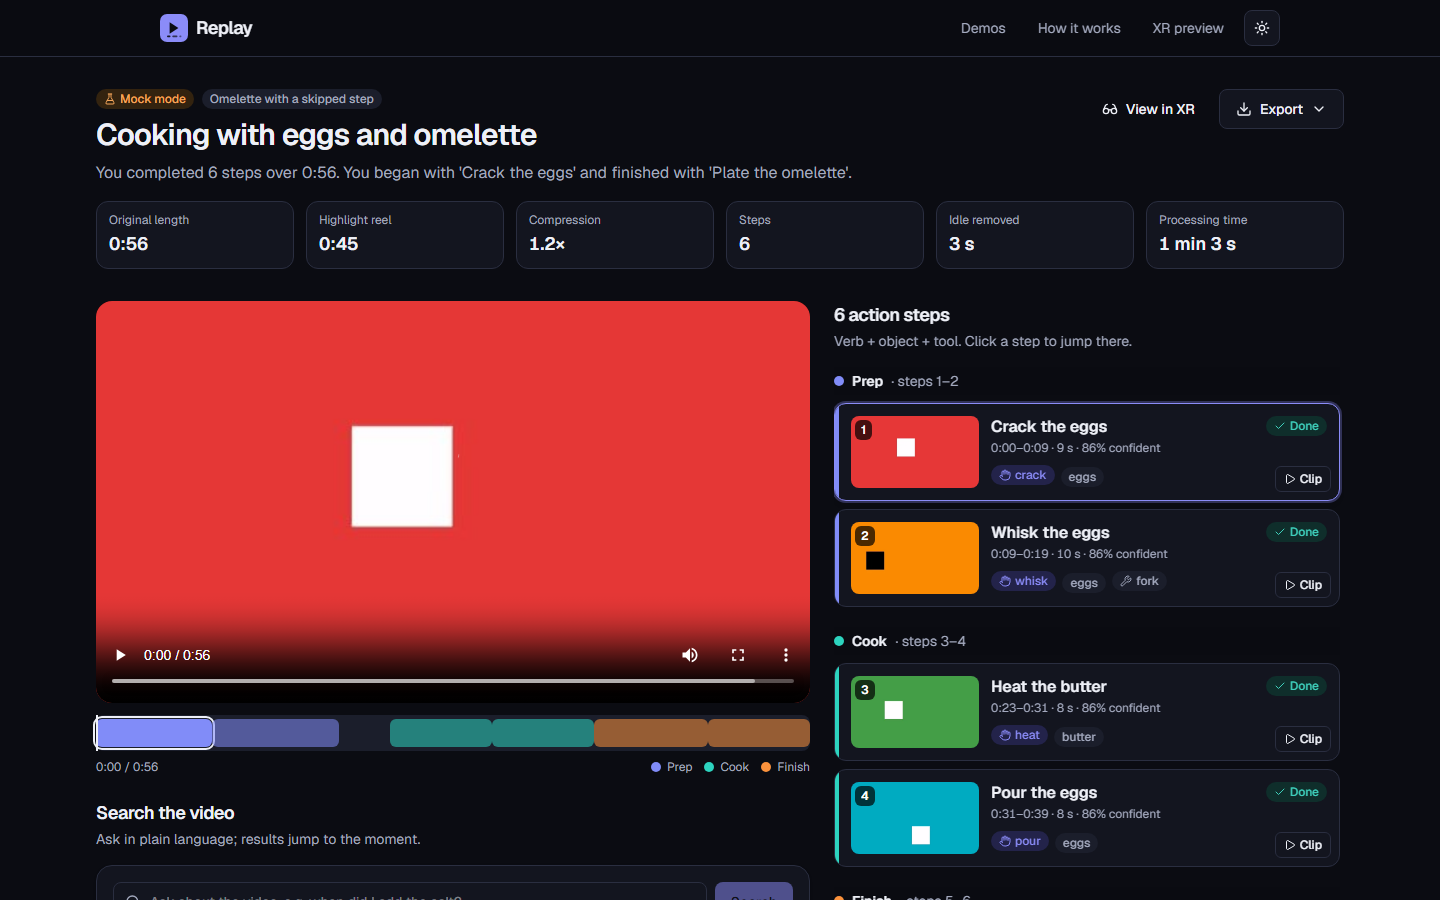
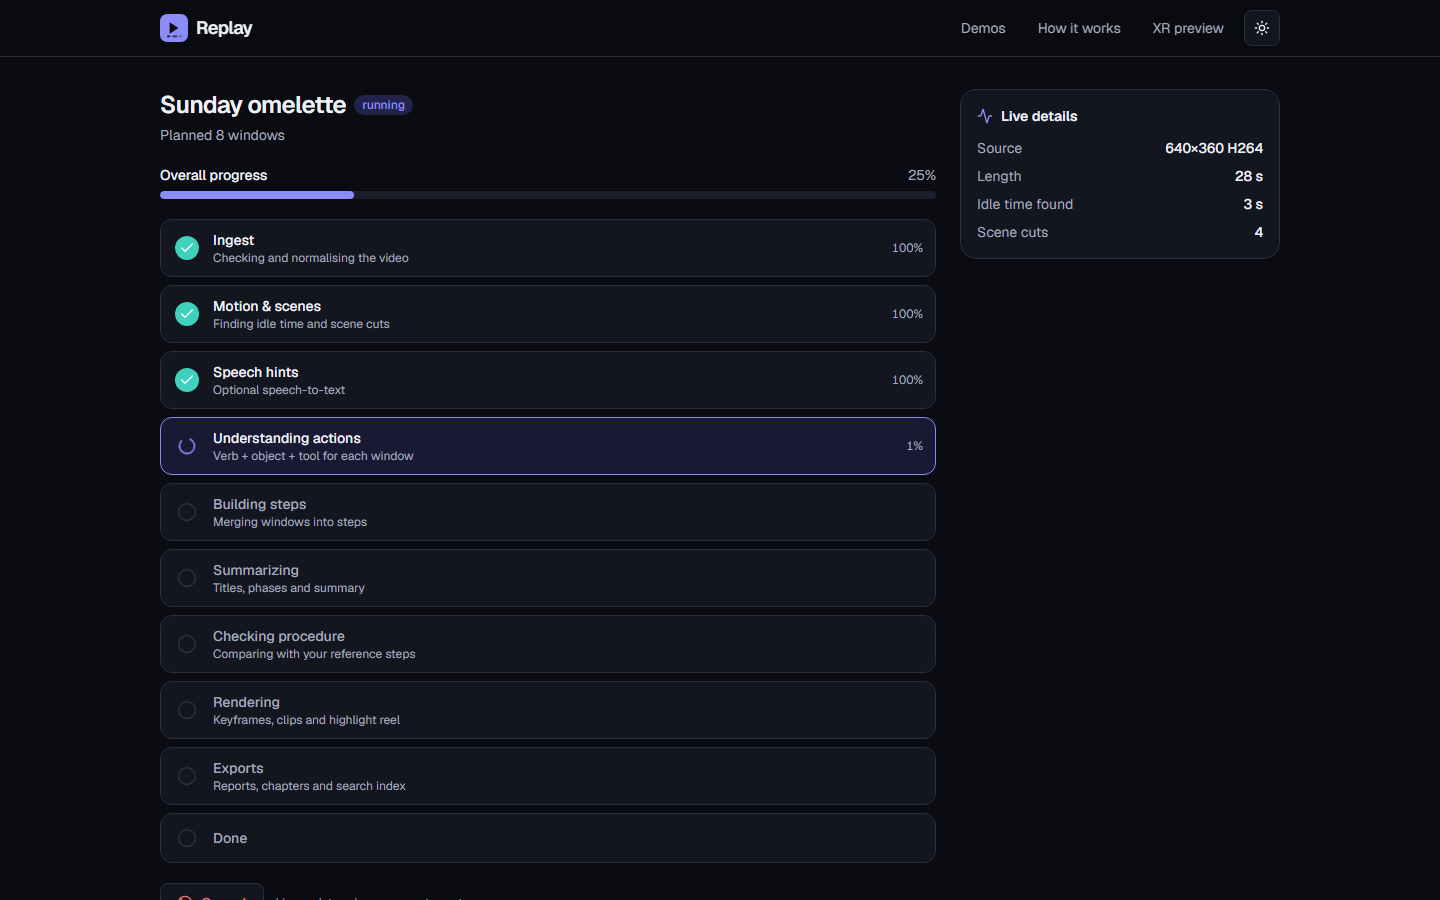
add screenshot scripts and fix a few labels

diff --git a/frontend/components/results/step-card.tsx b/frontend/components/results/step-card.tsx
@@ -109,7 +109,7 @@ export const StepCard = forwardRef<HTMLLIElement, Props>(function StepCard(
           type="button"
           onClick={() => onPlayClip(step)}
           className="absolute bottom-2 right-2 inline-flex items-center gap-1 rounded-md border border-border bg-surface px-2 py-1 text-xs font-medium hover:bg-surface-2"
-          aria-label={`Play clip of step ${step.order}: ${step.title}`}
+          aria-label={`Clip of step ${step.order}: ${step.title}`}
         >
           <Play className="h-3 w-3" aria-hidden /> Clip
         </button>

diff --git a/frontend/tests/components.test.tsx b/frontend/tests/components.test.tsx
@@ -55,7 +55,7 @@ describe("StepCard", () => {
     );
     await userEvent.click(screen.getByRole("button", { name: /seek the video/i }));
     expect(onSelect).toHaveBeenCalledWith(step);
-    await userEvent.click(screen.getByRole("button", { name: /play clip/i }));
+    await userEvent.click(screen.getByRole("button", { name: /clip of step/i }));
     expect(onPlayClip).toHaveBeenCalledWith(step);
   });
 

diff --git a/backend/app/api/uploads.py b/backend/app/api/uploads.py
@@ -28,7 +28,7 @@ class ParsedUpload:
 
 
 class _TooLargeError(Exception):
-    pass
+    """The file part exceeded the size limit while streaming."""
 
 
 async def parse_multipart_upload(

diff --git a/docs/PLAN.md b/docs/PLAN.md
@@ -74,6 +74,25 @@ This file is the running plan. Items are ticked as each one is finished and veri
   - [ ] Submission deck (docs/presentation)
   - [ ] Demo video (docs/media)
 
+#### Acceptance checklist status (local run, re-verified in the final pass)
+
+| Item | Status |
+|---|---|
+| `docker compose up` on a clean machine | **Not verified**: Docker isn't installed on the build machine. Compose and Dockerfiles are written and statically checked. `make dev` works locally. |
+| Full flow with no API keys (mock mode) | ✅ Playwright e2e: upload → live progress → results with steps, seek, search |
+| Real key, 2–3 min phone video | **Needs the user**: no API key or real recording was available. Providers are request-shape tested offline. |
+| Portrait, HEVC, VFR, no-audio work; too-long, too-big, corrupt, non-video rejected clearly | ✅ integration tests on synthetic videos |
+| Range seeking; chapter markers; active-step sync | ✅ 206 tests; checked in the browser |
+| Search by exact word and meaning; answer cites a timestamp | ✅ tests + browser |
+| Missed / out-of-order detection on fixtures and the skipped-step demo | ✅ unit tests; demos: "6 of 7 … skipped 'Chop the chives'", out-of-order shelf |
+| Highlight reel plays, captions + title cards, within ±10 % of target | ✅ ffprobe test (25 s target) |
+| Exports download and open (PDF keyframes, valid SRT/VTT) | ✅ tests |
+| Cancel and retry; restart leaves no stuck jobs | ✅ tests; checked in the browser (interrupted → Retry resumes at the failed stage) |
+| ruff, mypy, eslint, tsc, pytest, vitest, Playwright | ✅ all pass |
+| Lighthouse a11y ≥ 90 on landing and results; 375 px layout | ✅ 100 / 100 (desktop and mobile); no horizontal scroll at 375 px |
+| No TODOs, placeholders, dead links, secrets; `.env.example` complete | ✅ scanned; a test enforces `.env.example` completeness |
+| README quickstart from a fresh clone | ✅ local path (see final report); Docker path not verified |
+
 ## File tree
 
 ```
